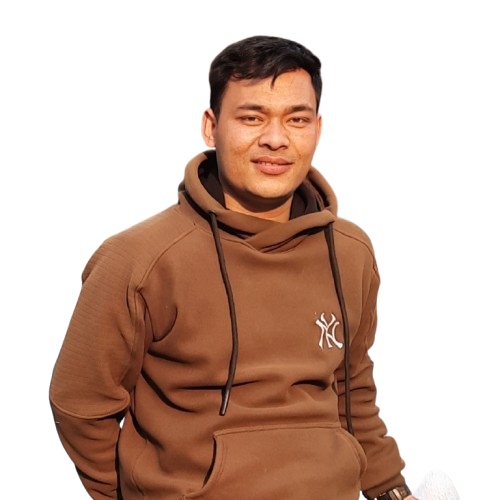
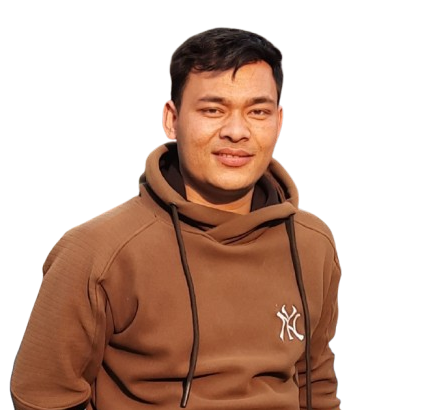
about

Changed region(s): [[0.0, 0.0585, 0.8605, 1.0]]

diff --git a/src/components/About.js b/src/components/About.js
@@ -1,8 +1,9 @@
-'use client';
+"use client";
 
-import { motion } from 'framer-motion';
-import Image from 'next/image';
-import profilePic from '@/assets/me.png'; // Replace with your actual image
+import { motion } from "framer-motion";
+import Image from "next/image";
+import profilePic from "@/assets/me.png"; // Replace with your actual image
+import Link from "next/link";
 
 export default function AboutSection() {
   return (
@@ -15,16 +16,32 @@ export default function AboutSection() {
           transition={{ duration: 1 }}
           className="flex-1"
         >
-          <h2 className="text-4xl font-bold mb-4 text-gray-800 dark:text-white">About Me</h2>
+          <h2 className="text-4xl font-bold mb-4 text-gray-800 dark:text-white">
+            About Me
+          </h2>
           <p className="text-lg text-gray-600 dark:text-gray-300 mb-4 leading-relaxed">
-            Hello! I'm a <span className="text-amber-500 font-semibold">Web Developer</span> and{" "}
-            <span className="text-amber-500 font-semibold">Graphic Designer</span> with a passion for
-            building creative, user-friendly digital experiences.
+            Hello! I'm a{" "}
+            <span className="text-amber-500 font-semibold">Web Developer</span>{" "}
+            and{" "}
+            <span className="text-amber-500 font-semibold">
+              Graphic Designer
+            </span>{" "}
+            with a passion for building creative, user-friendly digital
+            experiences.
           </p>
           <p className="text-gray-600 dark:text-gray-400">
-            With a strong foundation in front-end development and visual storytelling,
-            I bridge the gap between functionality and aesthetics. I love transforming ideas into intuitive, beautiful designs.
+            With a strong foundation in front-end development and visual
+            storytelling, I bridge the gap between functionality and aesthetics.
+            I love transforming ideas into intuitive, beautiful designs.
           </p>
+          <div className="mt-8 text-blue-600">
+            <Link
+              href="https://github.com/iamprabin-git"
+              className="flex justify-center mt-8"
+            >
+              My Github Link
+            </Link>
+          </div>
         </motion.div>
 
         {/* Image Area */}

diff --git a/src/components/Hero.js b/src/components/Hero.js
@@ -3,13 +3,30 @@
 import { motion } from "framer-motion";
 import Image from "next/image";
 import { TypeAnimation } from "react-type-animation";
-import heroImage from "@/assets/me.png"; // change if needed
+import heroImage from "@/assets/me1.png"; // change if needed
 import Link from "next/link";
 
 export default function HeroSection() {
   return (
     <section className="py-20 px-6 md:px-12 bg-white dark:bg-gray-900">
       <div className="container mx-auto flex flex-col-reverse md:flex-row items-center justify-between gap-12">
+
+         {/* Right - Image */}
+        <motion.div
+          initial={{ opacity: 0, x: 50 }}
+          animate={{ opacity: 1, x: 0 }}
+          transition={{ duration: 1 }}
+          className="flex-1"
+        >
+          <Image
+            src={heroImage}
+            alt="Prabin Dangol"
+            width={1000}
+            height={1000}
+            className="w-full h-100 object-contain "
+            priority
+          />
+        </motion.div>
         
         {/* Left - Animated Text */}
         <motion.div
@@ -47,22 +64,7 @@ export default function HeroSection() {
           </Link>
         </motion.div>
 
-        {/* Right - Image */}
-        <motion.div
-          initial={{ opacity: 0, x: 50 }}
-          animate={{ opacity: 1, x: 0 }}
-          transition={{ duration: 1 }}
-          className="flex-1"
-        >
-          <Image
-            src={heroImage}
-            alt="Prabin Dangol"
-            width={1000}
-            height={1000}
-            className="w-full h-100 object-cover "
-            priority
-          />
-        </motion.div>
+       
       </div>
     </section>
   );
